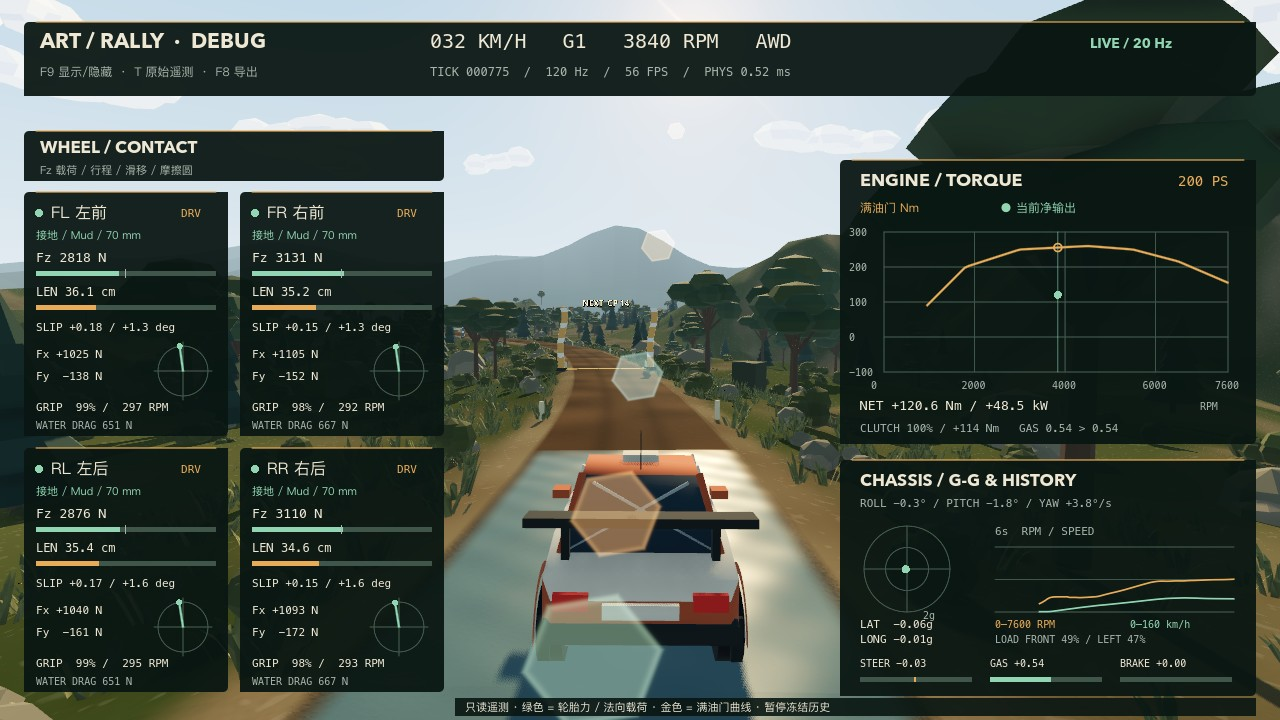
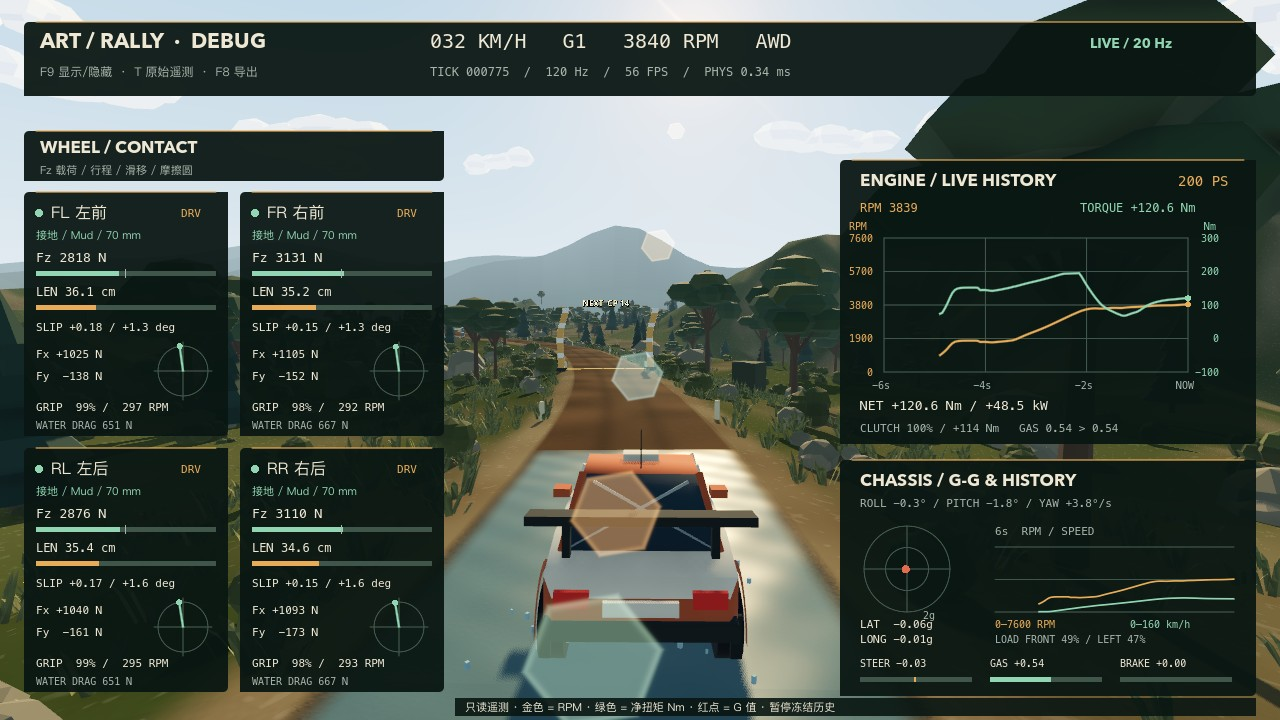
feat: scroll live RPM and torque histories with a red G-G marker

diff --git a/docs/DEBUG_PANEL.zh-CN.md b/docs/DEBUG_PANEL.zh-CN.md
@@ -9,17 +9,18 @@
 - 四轮按 FL / FR / RL / RR 排列。接地灯和 DRV / FREE 标记分别读取接触状态和驱动布局；材质、水深、水阻各自读取当前轮胎接触采样，不使用整车平均值。
 - Fz 是法向载荷，单位 N；载荷条中点是车重的四分之一。LEN 是悬架实际长度，行程条从全伸长到压缩限位，单位 cm。SLIP 是有符号的纵向滑移率，后面的角度是侧偏角，单位度。
 - 每轮摩擦圆显示横向 Fy / 纵向 Fx 的合成力，向上为正 Fx，向右为正 Fy。容量参考和轮胎模型一致，包含载荷敏感度、路面摩擦与涉水抓地修正。GRIP 是当前合成力与容量的比值，不是路面摩擦系数。
-- 金色发动机曲线来自当前动力资源的满油门净扭矩。空心点表示当前转速的满油门可用扭矩，绿色实心点表示实际净输出，包含发动机阻力、怠速调节以及换挡/限转/同步收油的作用；不是简单的曲线值乘踏板输入。
+- 发动机图表是最近 6 秒的滚动时间轴，不再是转速横轴的静态扭矩特性曲线。横轴从左侧 -6s 到右侧 NOW，最新采样始终位于右侧，旧数据随驾驶向左移动。金色曲线为实际发动机转速（左轴 RPM），绿色曲线为实际净扭矩（右轴 Nm）；上方读数和右端圆点对应最新采样，两条曲线共用采样时间。
+- 净扭矩包含发动机阻力、怠速调节以及换挡/限转/同步收油的作用，不是简单的满油门曲线值乘踏板输入。Nm 轴包含负值，可直观看到收油后的发动机制动。
 - NET kW 是净扭矩乘发动机角速度；CLUTCH Nm 是传到离合器的实际扭矩，可能与净输出不同，因为发动机有转动惯量。GAS 的两个数依次表示踏板命令和实际有效油门。负净扭矩可表示发动机制动。
-- G-G 图显示平滑后的车身局部速度差分加速度，横向为 LAT、向前为 LONG，单位 g；它不是包含重力项的真实加速度计读数。外圈为 2 g。ROLL / PITCH 是姿态角，YAW 是角速度。
-- 最近约 6 秒的历史中，金色为转速、绿色为车速，分别按红线转速和 160 km/h 标尺归一化。图形标记超界时裁剪，但实时数值不裁剪。
+- G-G 图的红色小球显示平滑后的车身局部速度差分加速度，横向为 LAT、向前为 LONG，单位 g；它不是包含重力项的真实加速度计读数。外圈为 2 g。ROLL / PITCH 是姿态角，YAW 是角速度。
+- 底盘区的小历史图保留转速（金色）和车速（绿色），分别按红线转速和 160 km/h 标尺归一化。图形标记超界时裁剪，但实时数值不裁剪。
 - 顶栏显示实际车速、挡位、转速、驱动布局、物理 tick、物理频率、渲染 FPS 和车辆物理回调耗时。场景中的绿色/金色箭头分别为载荷和轮胎合力。
 
 ## 更新与验证
 
 面板和历史以 20 Hz 更新，历史最多保留 120 个样本；关闭时停止采样和重绘。暂停冻结历史，复位/重新开启清除旧历史并忽略速度突变，选车菜单关闭调试显示。纯读取层不参与驾驶求解，新增发动机字段仅保存求解中已有的中间结果。
 
-`tests/debug_panel_test.gd` 检查实际扭矩/有效油门、四轮独立数据和单位、湿地摩擦圆、驱动轴标记、快捷键不抢手柄、暂停/复位/互斥、历史上限、多分辨率布局，以及两辆同参数车辆在调试开/关时的物理一致性。
+`tests/debug_panel_test.gd` 检查实际扭矩/有效油门、时间轴右端更新/左移、双曲线时刻同步、独立纵轴与负扭矩、四轮独立数据和单位、湿地摩擦圆、驱动轴标记、快捷键不抢手柄、暂停/复位/互斥、历史上限、多分辨率布局，以及两辆同参数车辆在调试开/关时的物理一致性。
 
 完整验证：`./scripts/dev.sh regression`。只更新 README 中间的调试截图：
 
@@ -29,4 +30,4 @@ godot --path . --max-fps 60 --script tests/readme_capture.gd -- --test-defaults 
 
 截图工具从真实 F9 输入打开调试，在泥地水洼内通过物理驾驶到拍摄点；检查四轮状态、非空历史和图形窗口布局。正式截图为 `docs/previews/readme-debug.jpg`，960×540 窗口检查图存入忽略版本控制的 `logs/debug_panel_960.png`。不保存或覆盖玩家设置。
 
-本次验证：24 组完整回归无失败，最终 32 项调试专项检查和 8 项真实窗口截图检查通过，30/60/120 FPS 回放一致性通过。1280×720 与 960×540 实机布局均已检查。
+实机检查覆盖 1280×720 与 960×540 两种窗口，截图工具还会检查红色 G 值小球的实际渲染像素，以及转速/扭矩历史的同步。
